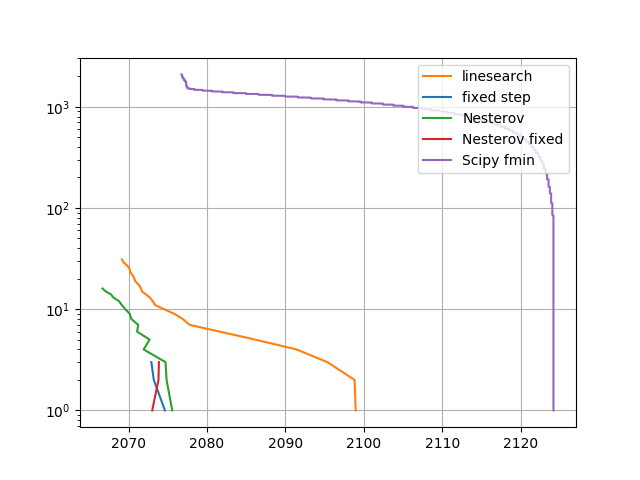
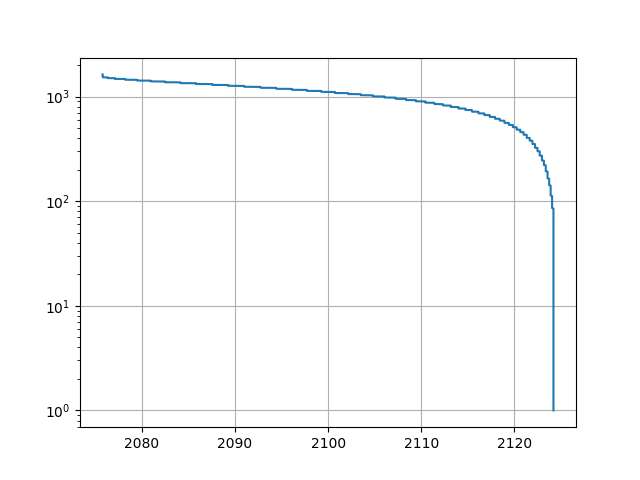
So it isn't my file load that is a problem, so it has to be my fNg function

diff --git a/hw6.py b/hw6.py
@@ -7,7 +7,9 @@ from gradient import sigm, descend, check
 
 perform_check = False
 use_scipy = True
-pb_num = 1
+use_matfile = False
+
+from scipy.io import loadmat
 
 if use_scipy:
     from scipy.optimize import fmin
@@ -50,38 +52,67 @@ def classify(w, X, y, threshold=0.5):
 if __name__ == '__main__':
     #plt.switch_backend('Qt4Agg')
     plt.switch_backend('agg')
-    # load the data file
-    f = open('data/hw6/spambase.data')
     X = []
     y = []
-    for line in f.readlines():
-        ldt = [float(v) for v in line.split(',')]
-        # Change the label from {1, 0} to {1, -1}.
-        if ldt[-1] == 0:
-            ldt[-1] = -1
-        y.append(ldt[-1])
-        # Normalize the data.
-        X.append([log(xij + 0.1) for xij in ldt[:-1]])
-    #endfor
-    # Transform X and Y to np.arrays
-    X = np.array(X)
-    # Shuffle X
-    np.random.shuffle(X)
-    train_size = 3065
-    Xtrain = X[:train_size]
-    y = np.array(y)
+    X_train, X_test, y_train, y_test = None, None, None, None
+    if use_matfile:
+        # Loading code from Manuel
+        data_mat = loadmat('data/hw6/spambase.mat')
+        # Test data
+        X_test = np.array(data_mat['Xtest'])
+        y_test = np.array(data_mat['ytest'], dtype=np.int8)
+        # Each row of X_train contains a case of the 57 inputs
+        # Each input in y_train corresponds to isSpam (1) or isNotSpam (0)
+        X_train = np.array(data_mat['Xtrain'])
+        y_train = np.array(data_mat['ytrain'], dtype=np.int8)
+        n = y_train.size
+        p = 57
+        ### Transforming 0 -> -1
+        y_train = np.squeeze(2*y_train - 1)
+        y_test = np.squeeze(2*y_test - 1)
+        ### Pre-process
+        X_train = np.log(X_train + 0.1)
+        X_test = np.log(X_test + 0.1)
+    else:
+        # load the data file
+        f = open('data/hw6/spambase.data')
+        for line in f.readlines():
+            ldt = [float(v) for v in line.split(',')]
+            # Change the label from {1, 0} to {1, -1}.
+            if ldt[-1] == 0:
+                ldt[-1] = -1
+            y.append(ldt[-1])
+            # Normalize the data.
+            X.append([log(xij + 0.1) for xij in ldt[:-1]])
+        #endfor
+        # Transform X and Y to np.arrays
+        X = np.array(X)
+        # Shuffle X
+        np.random.shuffle(X)
+        train_size = 3065
+        y = np.array(y)
+        X_train = X[:train_size]
+        y_train = y[:train_size]
+        X_test = X[train_size:]
+        y_test = y[train_size:]
 
-    def fNgGeneric(x, Xset):
-        rgn = len(Xset)
-        l = lambda w: sum([log(1 + exp(-y[i]*np.dot(w.transpose(), Xset[i]))) for i in range(rgn)])
-        nablal = lambda w: -sum([sigm(-y[i]*np.dot(w.transpose(), Xset[i]))*np.dot(y[i], Xset[i]) for i in range(rgn)])
+    #endif
+
+    def fNgGeneric(x, Xset, Yset):
+        n = y_train.size
+        l = lambda w: sum([log(1 + exp(-Yset[i]*np.inner(w, Xset[i]))) for i in range(n)])
+        nablal = lambda w: -sum([sigm(-Yset[i]*np.inner(w, Xset[i]))*np.dot(Yset[i], Xset[i]) for i in range(n)])
         return l(x), nablal(x)
 
-    def fNgTrain(x):
-        return fNgGeneric(x, Xtrain)
+        #l = lambda w: sum([log(1 + exp(-Yset[i]*np.dot(w.transpose(), Xset[i]))) for i in range(rgn)])
+        #nablal = lambda w: -sum([sigm(-Yset[i]*np.dot(w.transpose(), Xset[i]))*np.dot(Yset[i], Xset[i]) for i in range(rgn)])
+        #return l(x), nablal(x)
 
-    def fNgFull(x):
-        return fNgGeneric(x, X)
+    def fNgTrain(x):
+        return fNgGeneric(x, X_train, y_train)
+
+    def fNgTest(x):
+        return fNgGeneric(x, X_test, y_test)
 
     x0 = randn(57)
     if perform_check:
@@ -99,21 +130,21 @@ if __name__ == '__main__':
     tol = 1e-1
     tolX = 1e-1
 
-    print('[INFO] Starting fixed step gradient descent')
-    fixd_x, fixd_f0_values, fixd_g0_values = descend(fNgTrain, x0, linesearch=False, heavy=False, stepsize=1/L, maxIterations=maxIts, verbose=False, tol=tol, tolX=tolX)
-    fsp = plt.semilogy(fixd_f0_values, range(len(fixd_f0_values)), label='fixed step')[0]
+    #print('[INFO] Starting fixed step gradient descent')
+    #fixd_x, fixd_f0_values, fixd_g0_values = descend(fNgTrain, x0, linesearch=False, heavy=False, stepsize=1/L, maxIterations=maxIts, verbose=False, tol=tol, tolX=tolX)
+    #fsp = plt.semilogy(fixd_f0_values, range(len(fixd_f0_values)), label='fixed step')[0]
 
-    print('[INFO] Starting line search gradient descent')
-    lns_x, lns_f0_values, lns_g0_values = descend(fNgTrain, x0, linesearch=True, maxIterations=maxIts,verbose=False, tol=tol, tolX=tolX)
-    lsp = plt.semilogy(lns_f0_values, range(len(lns_f0_values)),label='linesearch')[0]
+    #print('[INFO] Starting line search gradient descent')
+    #lns_x, lns_f0_values, lns_g0_values = descend(fNgTrain, x0, linesearch=True, maxIterations=maxIts,verbose=False, tol=tol, tolX=tolX)
+    #lsp = plt.semilogy(lns_f0_values, range(len(lns_f0_values)),label='linesearch')[0]
 
-    print('[INFO] Starting line search Nesterov (heavy ball)')
-    nes_x, nes_f0_values, nes_g0_values = descend(fNgTrain, x0, linesearch=True, heavy=True, maxIterations=maxIts,verbose=False, tol=tol, tolX=tolX)
-    nep = plt.semilogy(nes_f0_values, range(len(nes_f0_values)),label='Nesterov')[0]
+    #print('[INFO] Starting line search Nesterov (heavy ball)')
+    #nes_x, nes_f0_values, nes_g0_values = descend(fNgTrain, x0, linesearch=True, heavy=True, maxIterations=maxIts,verbose=False, tol=tol, tolX=tolX)
+    #nep = plt.semilogy(nes_f0_values, range(len(nes_f0_values)),label='Nesterov')[0]
 
-    print('[INFO] Starting fixed step Nesterov (heavy ball)')
-    nes2_x, nes2_f0_values, nes2_g0_values = descend(fNgTrain, x0, linesearch=False, heavy=True, stepsize=1/L, maxIterations=maxIts, verbose=False, tol=tol, tolX=tolX)
-    nep2 = plt.semilogy(nes2_f0_values, range(len(nes2_f0_values)), label='Nesterov fixed')[0]
+    #print('[INFO] Starting fixed step Nesterov (heavy ball)')
+    #nes2_x, nes2_f0_values, nes2_g0_values = descend(fNgTrain, x0, linesearch=False, heavy=True, stepsize=1/L, maxIterations=maxIts, verbose=False, tol=tol, tolX=tolX)
+    #nep2 = plt.semilogy(nes2_f0_values, range(len(nes2_f0_values)), label='Nesterov fixed')[0]
 
 
     print('[INFO] Starting scipy\'s fmin')
@@ -123,12 +154,13 @@ if __name__ == '__main__':
     fmin(sfunc, x0, xtol=tolX, ftol=tol, maxiter=maxIts, full_output=True, callback=fmin_callback)
     fmp = plt.semilogy(fmin_values, range(len(fmin_values)),label='Scipy fmin')[0]
 
-    for name, val in [['GRADDESCENT', fixd_x[-1]], ['LINESEARCH', lns_x[-1]], ['NESTEROV', nes_x[-1]], ['NESTEROV 2', nes2_x[-1]], ['FMIN', fmin_x[-1]]]:
-        print('[{}] Classification on training data: {}'.format(name, classify(val, X[:train_size], y[:train_size])))
-        print('[{}] Classification on remaining data: {}'.format(name, classify(val, X[train_size:], y[train_size:])))
+    #for name, val in [['GRADDESCENT', fixd_x[-1]], ['LINESEARCH', lns_x[-1]], ['NESTEROV', nes_x[-1]], ['NESTEROV 2', nes2_x[-1]], ['FMIN', fmin_x[-1]]]:
+    for name, val in [['FMIN', fmin_x[-1]]]:
+        print('[{}] Classification on training data: {}'.format(name, classify(val, X_train, y_train)))
+        print('[{}] Classification on remaining data: {}'.format(name, classify(val, X_test, y_test)))
 
     plt.grid(True)
-    plt.legend(handles=[lsp, fsp, nep, nep2, fmp], loc='upper right')
+    #plt.legend(handles=[lsp, fsp, nep, nep2, fmp], loc='upper right')
     plt.show()
     plt.draw()
     plt.savefig('hw6.png')
